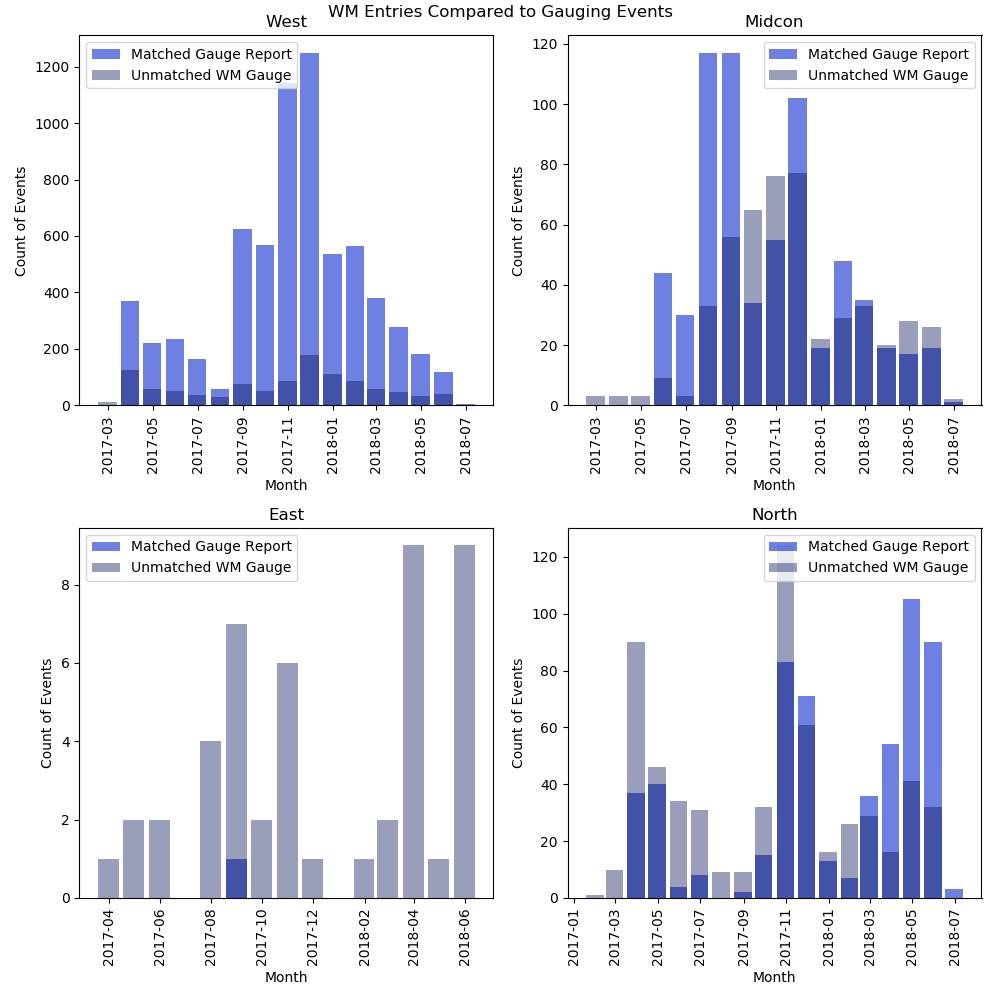
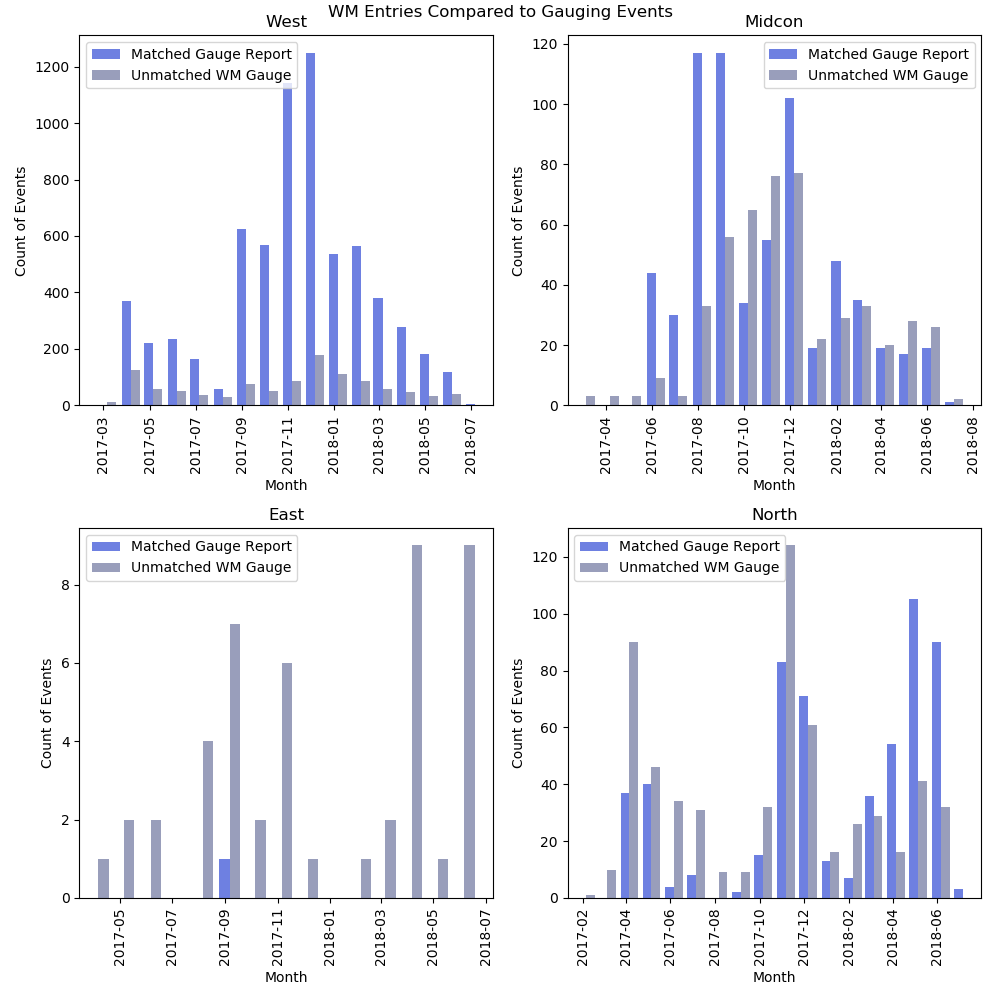
fixing graph

diff --git a/analyze.py b/analyze.py
@@ -168,9 +168,9 @@ def gauge_events(df):
 		gauge_df = g_df[(g_df['gauge'] == 1) & (g_df['wm'] == 0) & (g_df['BusinessUnit'] == bu)].groupby(\
 				pd.Grouper(freq='M', key='Action Date')).count().reset_index()
 
-		axis.bar(both_df['Action Date'].values, both_df['gauge'].values, 25, color='#0e2bce', \
+		axis.bar(both_df['Action Date'].values, both_df['gauge'].values, 12, color='#0e2bce', \
 			   alpha=.6, label='Matched Gauge Report')
-		axis.bar(wm_df['Action Date'].values, wm_df['gauge'].values, 25, color='#000d56', \
+		axis.bar(wm_df['Action Date'].values + np.timedelta64(12, 'D'), wm_df['gauge'].values, 12, color='#000d56', \
 			   alpha=.4, label='Unmatched WM Gauge')
 		axis.set_title('{}'.format(bu))
 		axis.legend()
